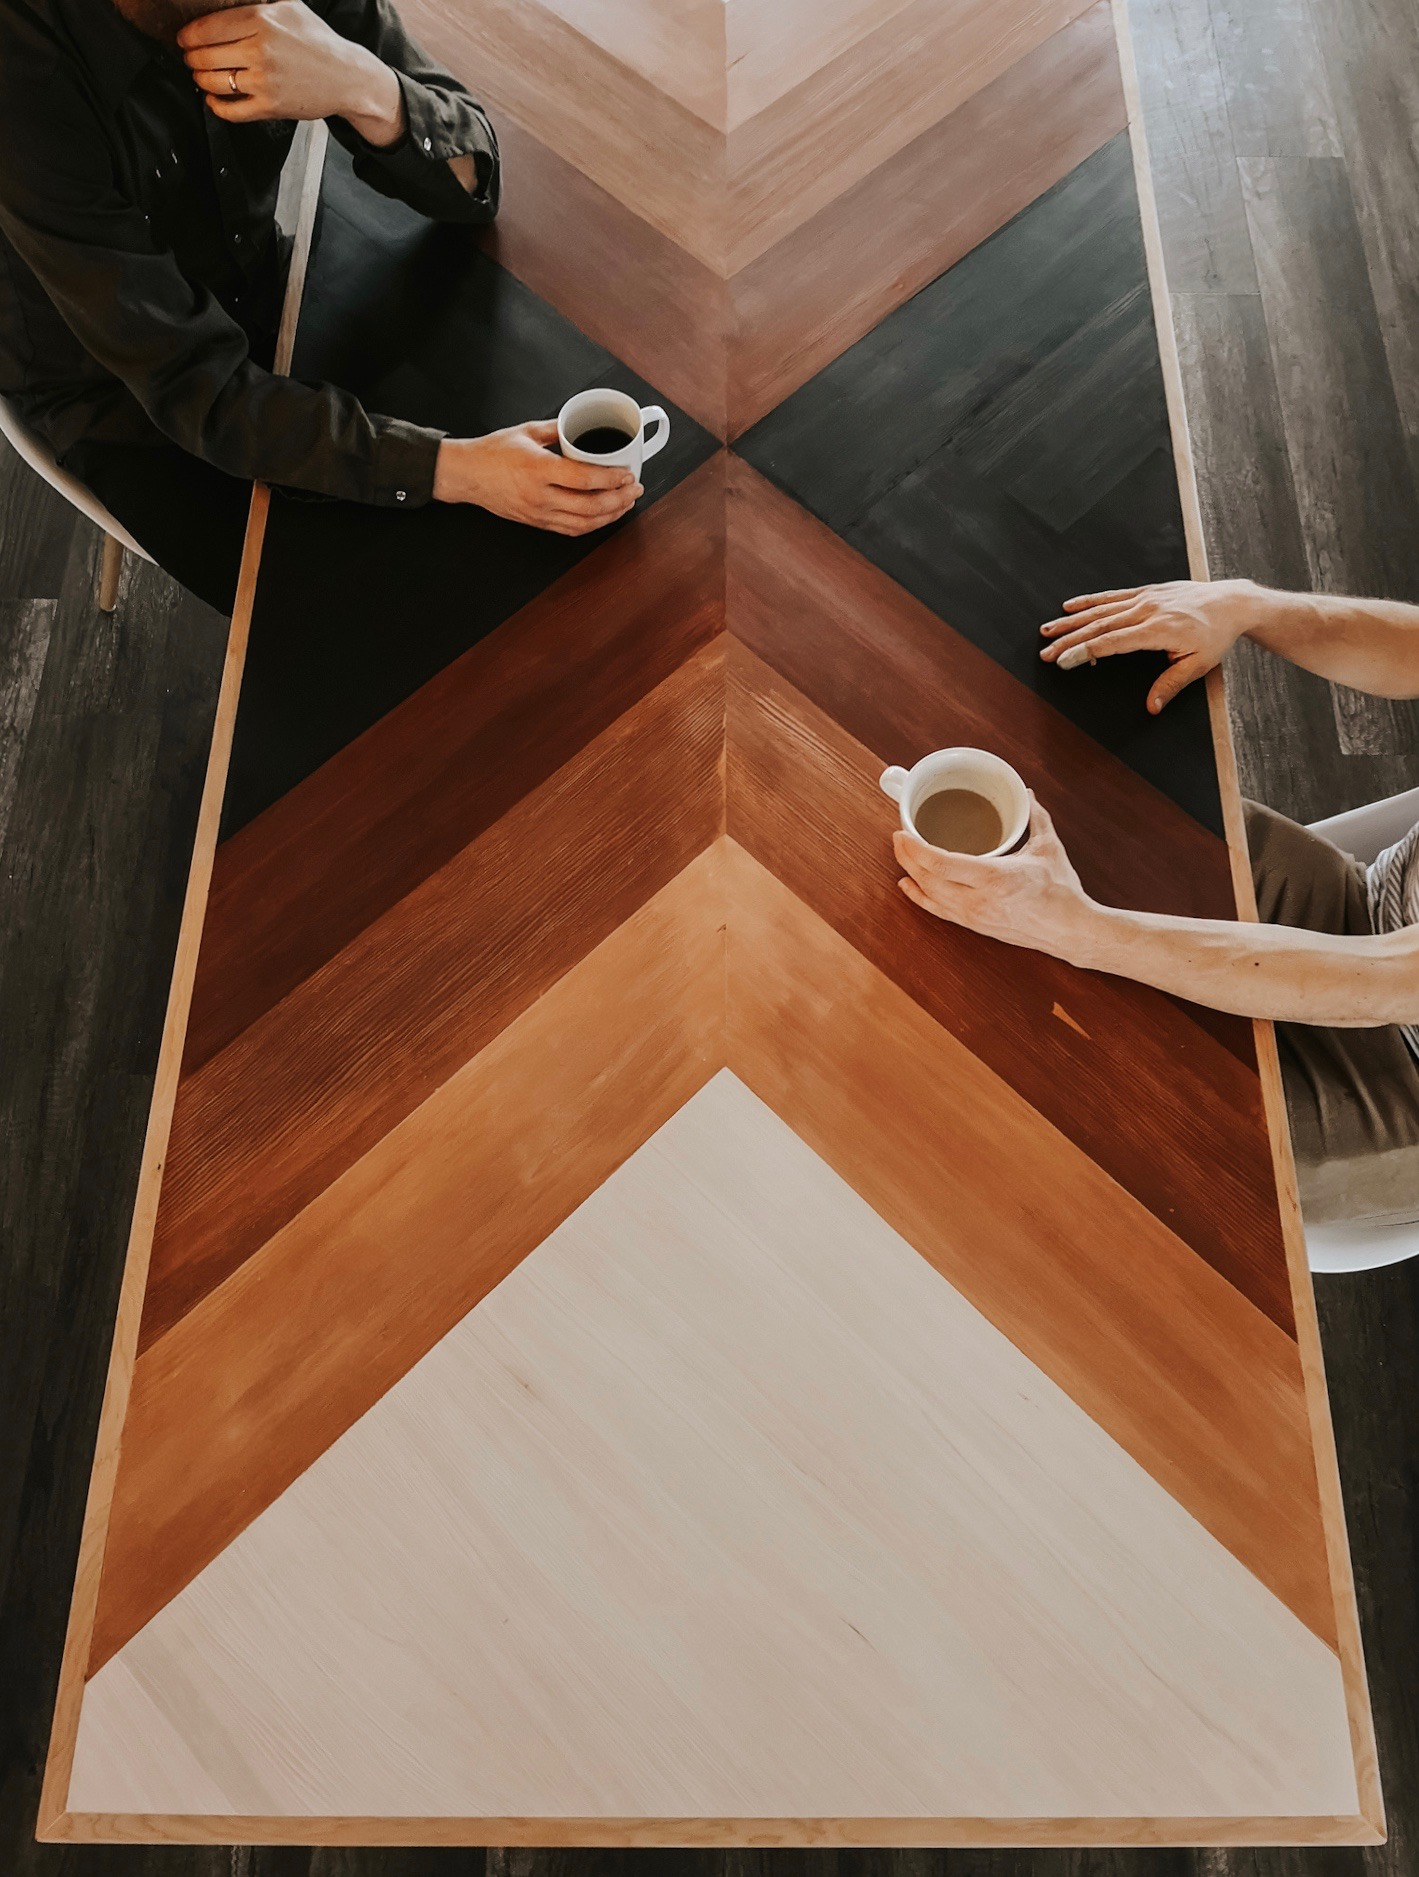
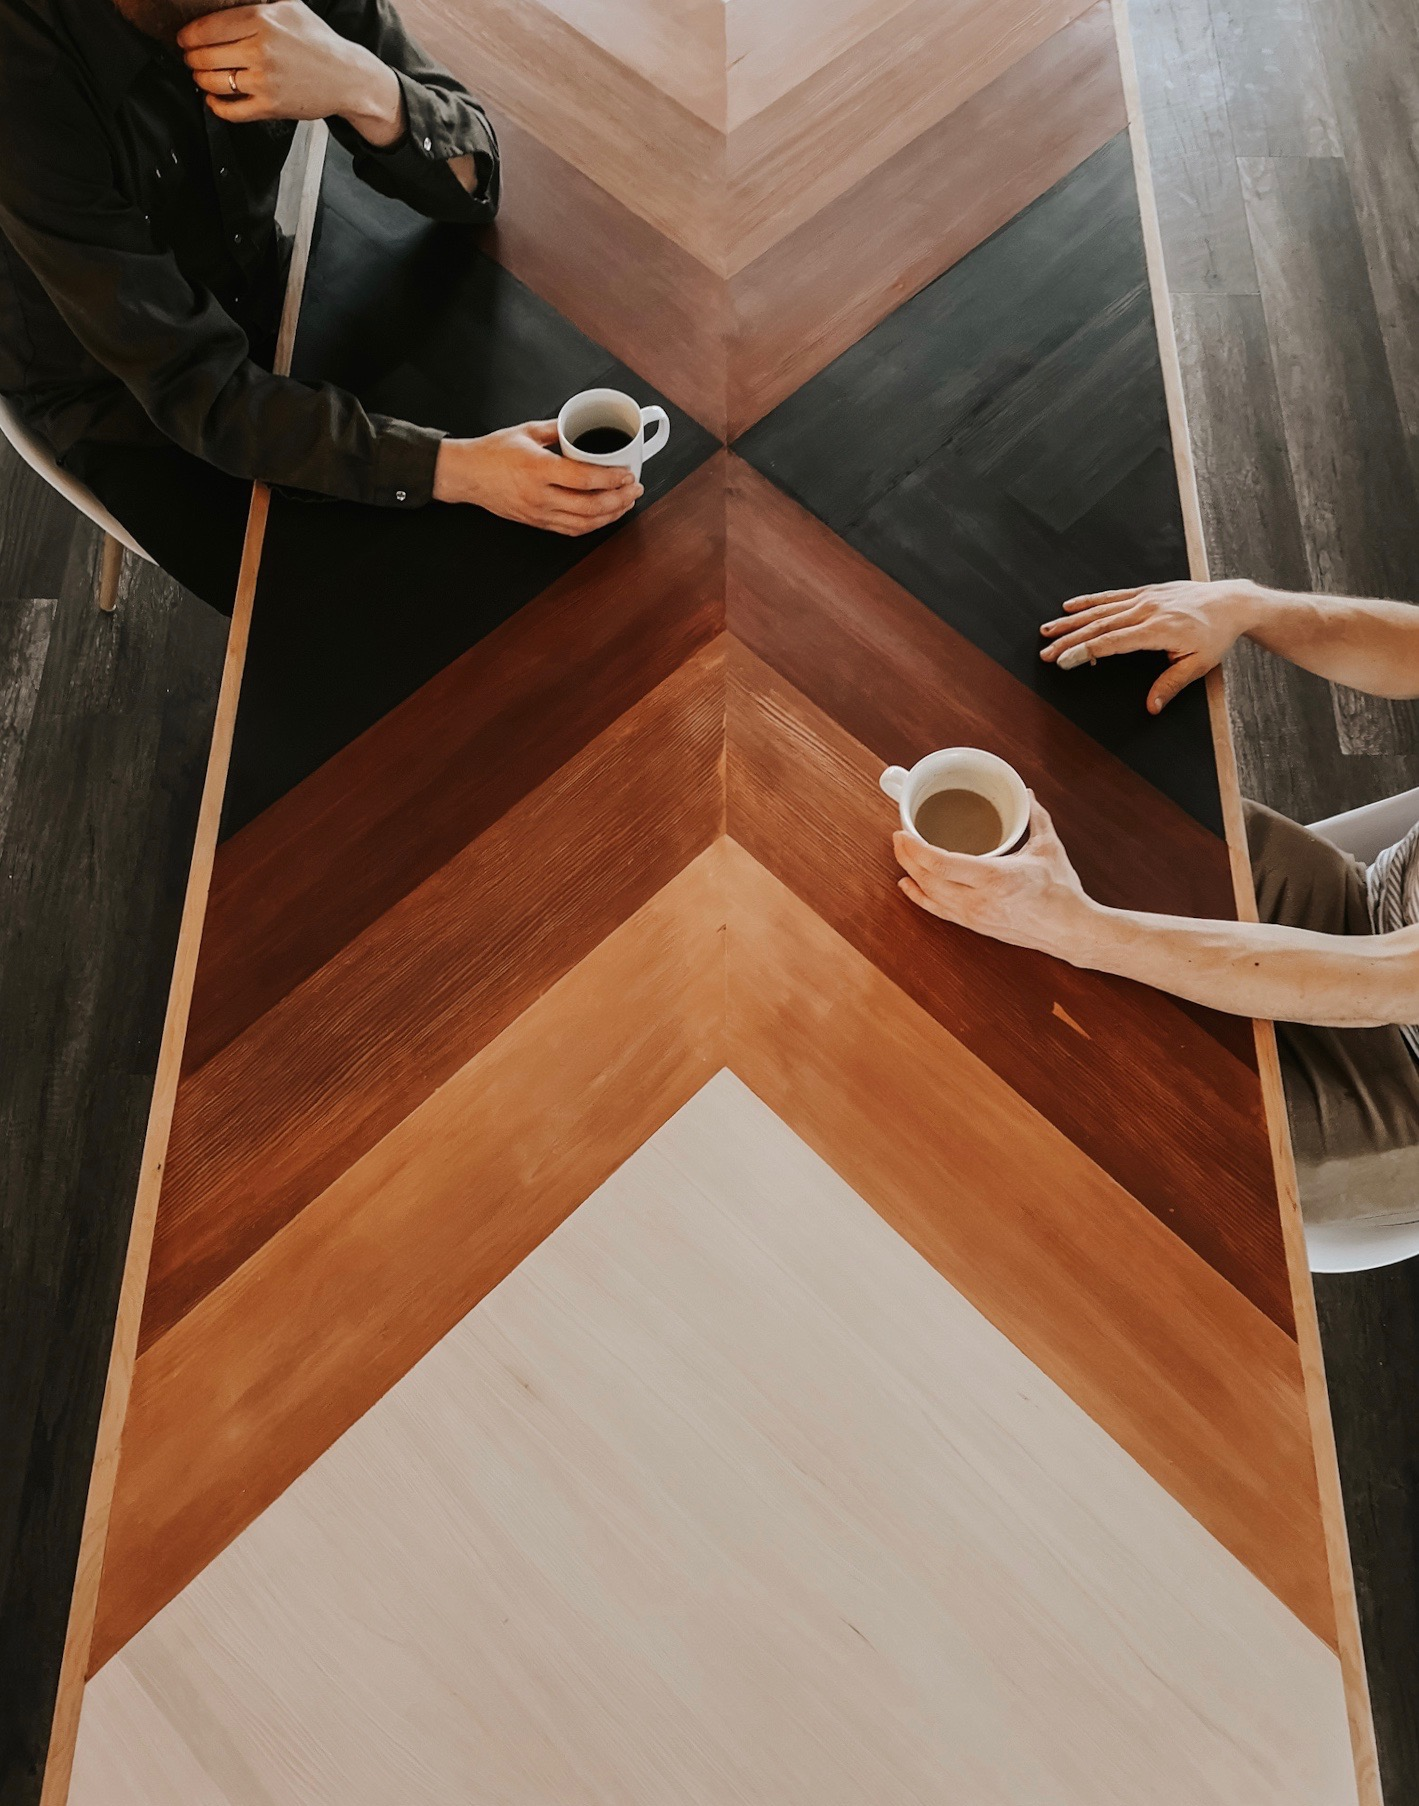
update Jun17

diff --git a/index5.css b/index5.css
@@ -11,15 +11,17 @@
         * {
 			border: solid grey .2px;
         }
+body {
+    background: url("table1.jpg");
+    background-size: cover;
+    background-attachment: fixed;
+    background-repeat: no-repeat;
+    background-position: 54% top;        }
 .container-span.table {
     color: white;
-    font-family: Avenir;
-    font-size: 2.45vh;
-    background: url("table1.jpg");
-    background-size: 100%;
-    background-repeat: no-repeat;
-    position: relative;
-    top: 0;
+    font-family: "Avenir";
+    font-size: 2.5vh;
+    font-weight: 100;
     }
         .nav-item {
             list-style: none;
@@ -28,24 +30,16 @@
             padding: 2vw;
         }
     .row-span.spacer1 { padding: 0; margin: 0;
-    font-size: 2vw;
-    visibility: hidden; }
-    .row.text { padding: 0; margin: 0; }
-    .row-span.spacer2 { padding: 0; margin: 0;
-    font-size: 7vw;
-    visibility: hidden; }
-    #spacer { padding: 0; margin: 0;
-    font-size: 1vw;
-    visibility: hidden; }
-    .row.ethos { padding: 0; margin: 0; }
-    } 
+            height: 1vw;
+            font-size: 1vw;
+            visibility: ; }
+    .row.text { padding: 0; margin: 0; }}
     @font-face {
-        font-family: ButlerBlack;
+        font-family: Butler-Black;
         src: url(Butler_Black.otf);
-        font-weight: 400;
     } 
         #enjoy {
-            font-family: ButlerBlack;
+            font-family: Butler-Black;
             font-size: 10vw;
             letter-spacing: 0.01em;
             line-height: 9vw;
@@ -57,23 +51,46 @@
             min-width: 10vw;
             max-width: 14vw;
         }
-    .ethos {
-        letter-spacing: 0.017em;
-        line-height: 1.1em;
+    .row-span.spacer2 { padding: 0; margin: 0;
+        height: 18vh;
+        font-size: 1vw;
+        visibility: ; }
+    .row.ethos { padding: 0; margin: 0;
+        letter-spacing: 0.018em;
+        line-height: 1.15em;
         }
-    #p {
-        padding: 0 0 0 7vw;
-    }
+    .col-6.ethos {
+        padding: 0 0 0 3vw;
+        }
     .col-6.address {
             letter-spacing: 0.15em;
-            padding: 0 0 0 3vw;
+            padding: 51vh 0 0 3vw;
         }
+    #address {
+        padding: 
+    }
         #train-station {
             font-size: 0.7em;
             vertical-align: middle;
         }
-    .container-span.study {
+    .row-span.spacer6 { padding: 0; margin: 0;
+        height: 55vw;
+        font-size: 1vw;
+    }
+/*
+    @media (max-aspect-ratio: 375/667) {
+        #ethos1 {display: none}
+        #ethos2 {display: none}
+        .row-span.spacerA {display: none}
+        .row-span.spacer3 {height: width*1877/1419}
+    }
+    @media (max-aspect-ratio: 426/711) {
+        #ethos2 {display: none}
+    }
+*/
+    .container-span.community {
         font-family: "Avenir";
+        font-size: 2.45vh;
         background: url("working.jpg");
         background-repeat: no-repeat;
         background-size: 100%;

diff --git a/index5.html b/index5.html
@@ -30,42 +30,24 @@
     </div>
     <div class="row-span spacer2">spacer2</div>
     <div class="row ethos"> 
-        <div class="col-6" id="p">
-            <a>We serve Fernwood espresso and filter coffee, tea, muesli,
-             toast by the slice, cookies, and other tasty snacks.
-             <br><br>
-            <a>Whether you need a place to study, an afternoon pick-me-up, or a refill
+        <div class="col-6 ethos">
+            <p>We serve Fernwood espresso and filter coffee, tea, muesli,
+             toast by the slice, and other tasty snacks.</p>
+            <p>Whether you need a place to study, an afternoon pick-me-up, or a refill
              before hitting the trail, we encourage you to enjoy. Enjoy good company. 
-             Enjoy smiling. Enjoy the walls. Please also enjoy your coffee.</a>
+             Enjoy smiling. Enjoy the walls. Please also take some time and enjoy your coffee.</p>
+            <p>White Rabbit Coffee Co. is a community space that inspires collaboration. 
+            We're not just coffee. We're a habitat of endless possibility. Enjoy your stay.</p>
         </div>
-        <div class="col-6"></div>
-    </div>
-    <div class="row ethos align-items-center">
-        <div class="col-6" id="p">
-            <a id="ethos2"><br>White Rabbit Coffee Co. is a community space that inspires collaboration. 
-            We're not just coffee. We're a habitat of endless possibility. Enjoy your stay.<br><br></a>
-        </div>
-        <div class="col-6 address ">
-            <a href="https://goo.gl/maps/CGWnKEEKEck" style="color: white !important;">
+        <div class="col-6 address">
+            <a id="address" href="https://goo.gl/maps/CGWnKEEKEck" style="color: white !important;">
             <span><br>321 SELBY STREET </span><span id="train-station">(TRAIN&nbsp;STATION)</span><br>
             <span>NANAIMO, BC</span></a>
         </div>
     </div>
 </div>
 <!-- sections -->
-<div class="container latte">
-    <div class="col-6 ethos3">
-    </div>
-</div>
-<!--
-            <div class="row-span menu">
-                    <div class="col-span">
-                        <img src="counter.png" style="width:100%"></img>
-                    </div>
-                </div>
--->
-<div class="container-span study">
-    <div class="col-span"> </div>
+<div class="container-span community">
 </div>
 <div class="container-span us1">
     <div class="col-span"><img src="usAmy2.jpg" style="width:100%"></img></div>
